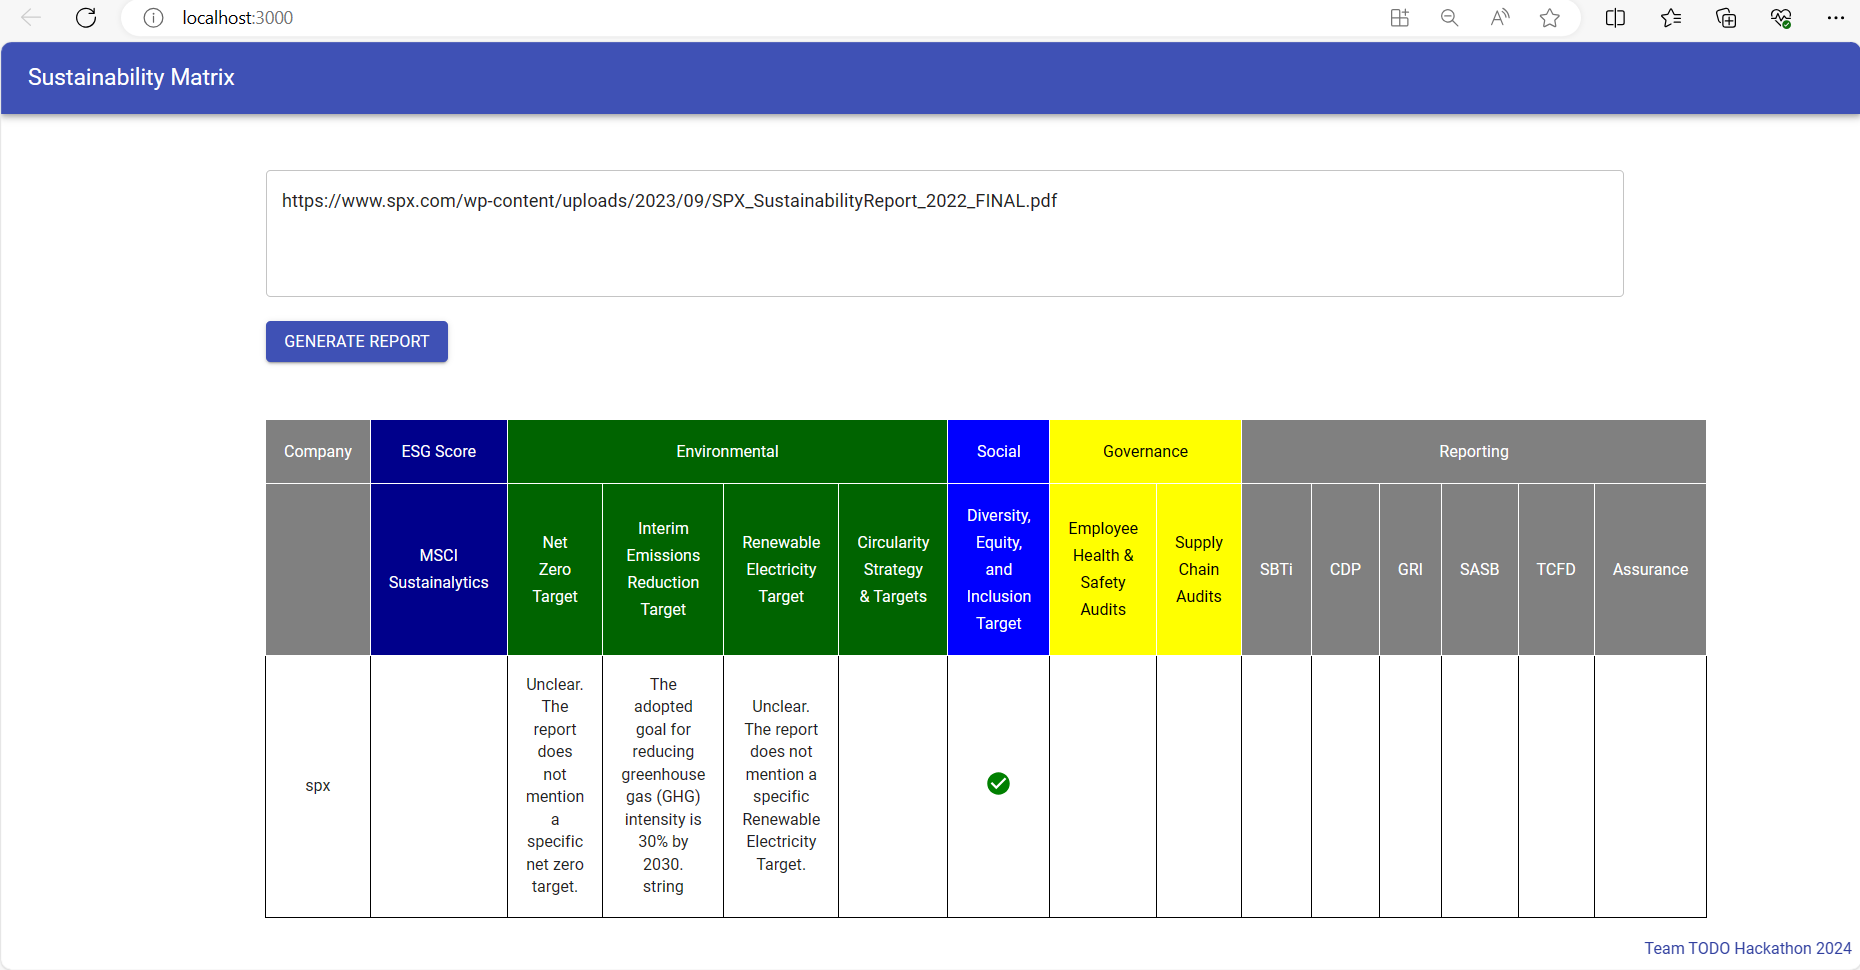
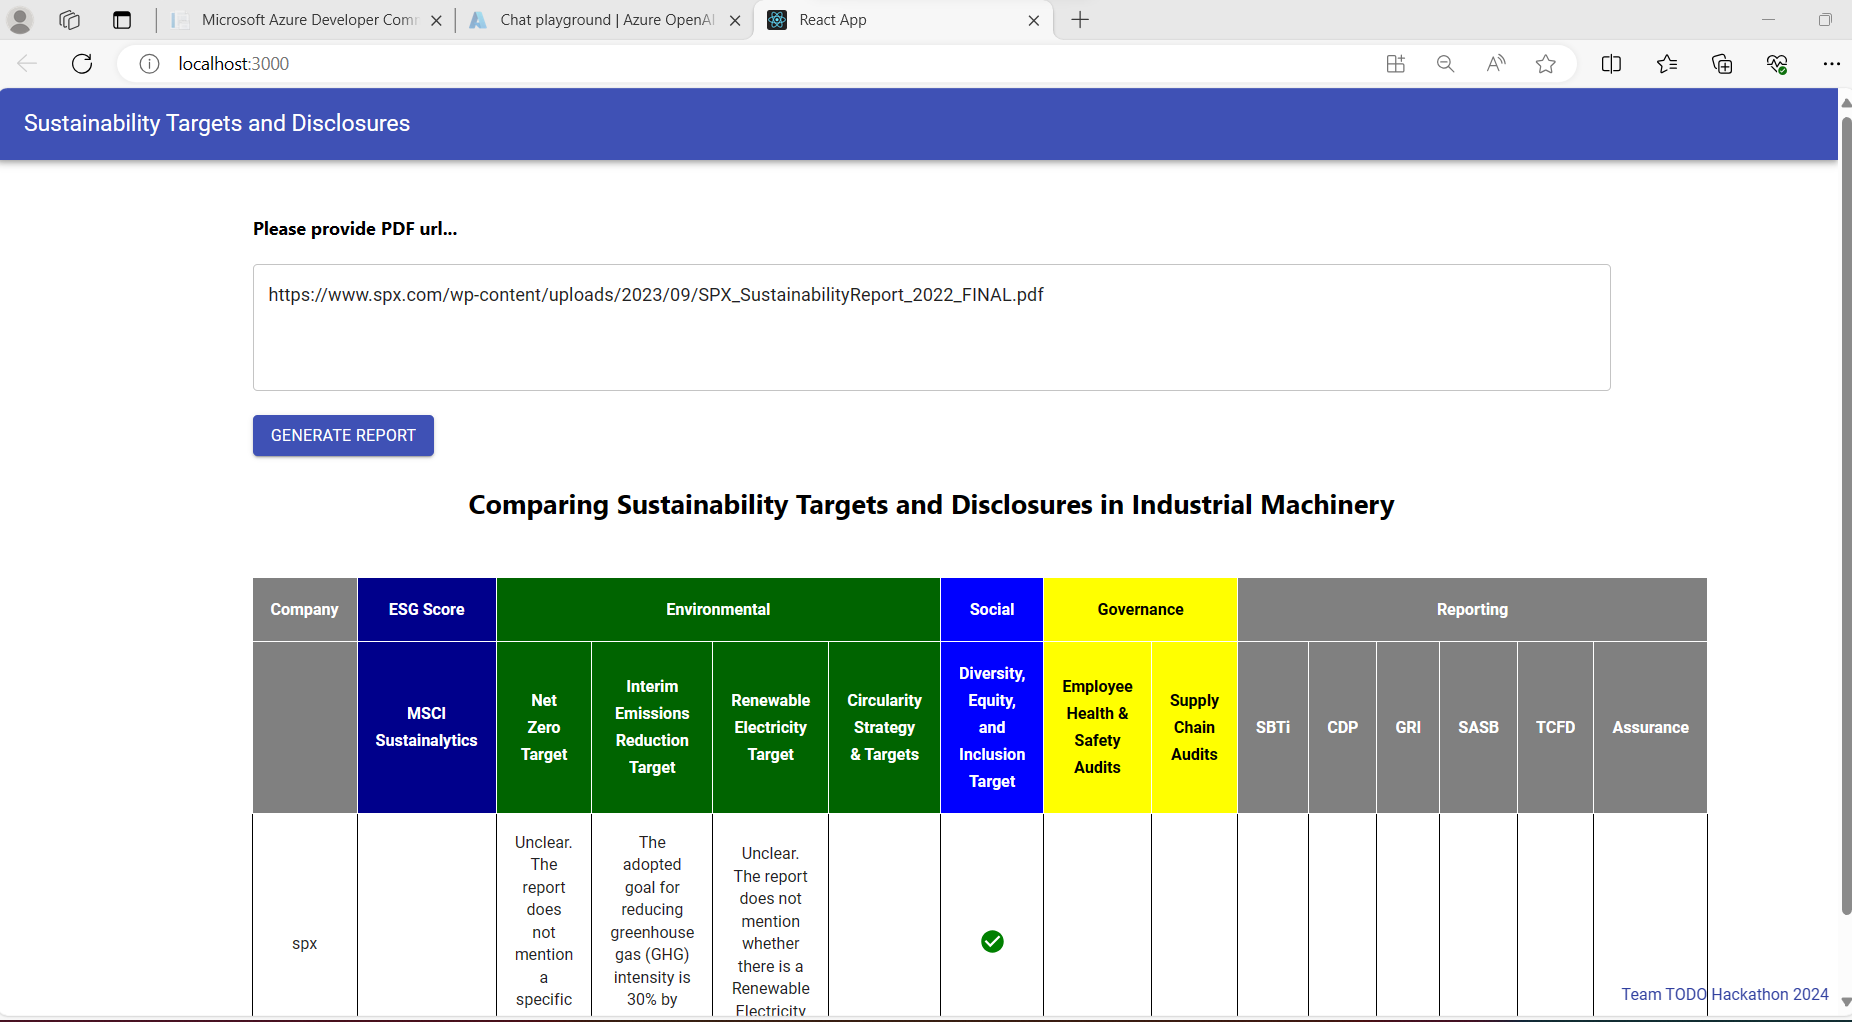
Some UI Modifications

diff --git a/Hackathon2024UI/sustainability-matrix/src/EsgResponseGrid.jsx b/Hackathon2024UI/sustainability-matrix/src/EsgResponseGrid.jsx
@@ -13,29 +13,29 @@ function EsgResponseGrid({ data }) {
         <Table>
           <TableHead>
             <TableRow>
-              <TableCell style={{ border: '1px solid white', backgroundColor:'grey', color:'white', textAlign: 'center'  }}>Company</TableCell>
-              <TableCell style={{ border: '1px solid white', backgroundColor:'darkblue', color:'white' , textAlign: 'center' }}>ESG Score</TableCell>
-              <TableCell style={{ border: '1px solid white', backgroundColor:'darkgreen', color:'white', textAlign: 'center'  }} colSpan={4}>Environmental</TableCell>
-              <TableCell style={{ border: '1px solid white', backgroundColor:'blue', color:'white', textAlign: 'center'   }}>Social</TableCell>
-              <TableCell style={{ border: '1px solid white', backgroundColor:'yellow', color:'black' , textAlign: 'center'   }} colSpan={2}>Governance</TableCell>
-              <TableCell style={{ border: '1px solid white', backgroundColor:'grey', color:'white', textAlign: 'center' }} colSpan={6}>Reporting</TableCell>              
+              <TableCell style={{ border: '1px solid white', backgroundColor:'grey', color:'white', textAlign: 'center', fontWeight:'bold'}}>Company</TableCell>
+              <TableCell style={{ border: '1px solid white', backgroundColor:'darkblue', color:'white' , textAlign: 'center',fontWeight:'bold'}}>ESG Score</TableCell>
+              <TableCell style={{ border: '1px solid white', backgroundColor:'darkgreen', color:'white', textAlign: 'center',fontWeight:'bold'}} colSpan={4}>Environmental</TableCell>
+              <TableCell style={{ border: '1px solid white', backgroundColor:'blue', color:'white', textAlign: 'center',fontWeight:'bold' }}>Social</TableCell>
+              <TableCell style={{ border: '1px solid white', backgroundColor:'yellow', color:'black' , textAlign: 'center',fontWeight:'bold' }} colSpan={2}>Governance</TableCell>
+              <TableCell style={{ border: '1px solid white', backgroundColor:'grey', color:'white', textAlign: 'center',fontWeight:'bold'}} colSpan={6}>Reporting</TableCell>              
             </TableRow>
             <TableRow>
               <TableCell style={{ border: '1px solid white', backgroundColor:'grey', color:'white' , textAlign: 'center'}}></TableCell>
-              <TableCell style={{ border: '1px solid white', backgroundColor:'darkblue', color:'white', textAlign: 'center'}}>MSCI Sustainalytics</TableCell>
-              <TableCell style={{ border: '1px solid white', backgroundColor:'darkgreen', color:'white' , textAlign: 'center'}}>Net Zero Target</TableCell>
-              <TableCell style={{ border: '1px solid white', backgroundColor:'darkgreen', color:'white', textAlign: 'center'}}>Interim Emissions Reduction Target</TableCell>
-              <TableCell style={{ border: '1px solid white', backgroundColor:'darkgreen', color:'white', textAlign: 'center'}}>Renewable Electricity Target</TableCell>
-              <TableCell style={{ border: '1px solid white', backgroundColor:'darkgreen', color:'white',textAlign: 'center' }}>Circularity Strategy & Targets</TableCell> 
-              <TableCell style={{ border: '1px solid white', backgroundColor:'blue', color:'white',textAlign: 'center'}}>Diversity, Equity, and Inclusion Target</TableCell>   
-              <TableCell style={{ border: '1px solid white', backgroundColor:'yellow', color:'black',textAlign: 'center'}}>Employee Health & Safety Audits</TableCell>
-              <TableCell style={{ border: '1px solid white', backgroundColor:'yellow', color:'black',textAlign: 'center'}}>Supply Chain Audits</TableCell> 
-              <TableCell style={{ border: '1px solid white', backgroundColor:'grey', color:'white', textAlign: 'center'}}>SBTi</TableCell>
-              <TableCell style={{ border: '1px solid white', backgroundColor:'grey', color:'white',textAlign: 'center'}}>CDP</TableCell>
-              <TableCell style={{ border: '1px solid white', backgroundColor:'grey', color:'white',textAlign: 'center'}}>GRI</TableCell> 
-              <TableCell style={{ border: '1px solid white', backgroundColor:'grey', color:'white',textAlign: 'center' }}>SASB</TableCell>             
-              <TableCell style={{ border: '1px solid white', backgroundColor:'grey', color:'white',textAlign: 'center' }}>TCFD</TableCell>  
-              <TableCell style={{ border: '1px solid white', backgroundColor:'grey', color:'white',textAlign: 'center'  }}>Assurance</TableCell>                        
+              <TableCell style={{ border: '1px solid white', backgroundColor:'darkblue', color:'white', textAlign: 'center', fontWeight:'bold'}}>MSCI Sustainalytics</TableCell>
+              <TableCell style={{ border: '1px solid white', backgroundColor:'darkgreen', color:'white' , textAlign: 'center', fontWeight:'bold'}}>Net Zero Target</TableCell>
+              <TableCell style={{ border: '1px solid white', backgroundColor:'darkgreen', color:'white', textAlign: 'center', fontWeight:'bold'}}>Interim Emissions Reduction Target</TableCell>
+              <TableCell style={{ border: '1px solid white', backgroundColor:'darkgreen', color:'white', textAlign: 'center', fontWeight:'bold'}}>Renewable Electricity Target</TableCell>
+              <TableCell style={{ border: '1px solid white', backgroundColor:'darkgreen', color:'white',textAlign: 'center', fontWeight:'bold' }}>Circularity Strategy & Targets</TableCell> 
+              <TableCell style={{ border: '1px solid white', backgroundColor:'blue', color:'white',textAlign: 'center', fontWeight:'bold'}}>Diversity, Equity, and Inclusion Target</TableCell>   
+              <TableCell style={{ border: '1px solid white', backgroundColor:'yellow', color:'black',textAlign: 'center', fontWeight:'bold'}}>Employee Health & Safety Audits</TableCell>
+              <TableCell style={{ border: '1px solid white', backgroundColor:'yellow', color:'black',textAlign: 'center', fontWeight:'bold'}}>Supply Chain Audits</TableCell> 
+              <TableCell style={{ border: '1px solid white', backgroundColor:'grey', color:'white', textAlign: 'center', fontWeight:'bold'}}>SBTi</TableCell>
+              <TableCell style={{ border: '1px solid white', backgroundColor:'grey', color:'white',textAlign: 'center', fontWeight:'bold'}}>CDP</TableCell>
+              <TableCell style={{ border: '1px solid white', backgroundColor:'grey', color:'white',textAlign: 'center', fontWeight:'bold'}}>GRI</TableCell> 
+              <TableCell style={{ border: '1px solid white', backgroundColor:'grey', color:'white',textAlign: 'center', fontWeight:'bold' }}>SASB</TableCell>             
+              <TableCell style={{ border: '1px solid white', backgroundColor:'grey', color:'white',textAlign: 'center', fontWeight:'bold' }}>TCFD</TableCell>  
+              <TableCell style={{ border: '1px solid white', backgroundColor:'grey', color:'white',textAlign: 'center', fontWeight:'bold'  }}>Assurance</TableCell>                        
             </TableRow>
           </TableHead>
           <TableBody>

diff --git a/Hackathon2024UI/sustainability-matrix/src/App.js b/Hackathon2024UI/sustainability-matrix/src/App.js
@@ -71,7 +71,7 @@ function App() {
       <AppBar position="static">
         <Toolbar>
           <Typography variant="h6">
-            Sustainability Matrix
+          Sustainability Targets and Disclosures
           </Typography>
         </Toolbar>
       </AppBar>
@@ -85,7 +85,7 @@ function App() {
         rows={4}
         cols={50}
       /> */}
-
+      <h4>Please provide PDF url...</h4>
       <TextField
             placeholder="Enter URL here..."
             value={url}
@@ -101,6 +101,11 @@ function App() {
       <Button variant="contained" color="primary" onClick={handleButtonClick} disabled={loading}>Generate Report</Button>
       
     </div>
+
+    <div style={{marginTop:'25px', marginLeft:'25px', marginBottom:'25px'}}>
+        <h2 style={{textAlign:'center'}}>Comparing Sustainability Targets and Disclosures in Industrial Machinery</h2>
+    </div>
+
     {loading ? (
        <div className="loader-container">
        <div className="loader-text">Loading...</div>
